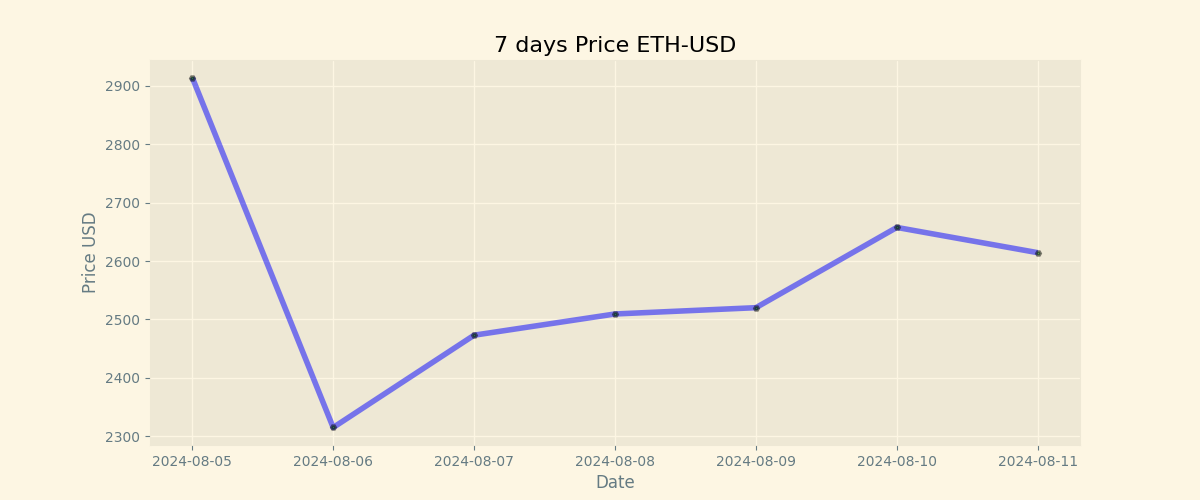
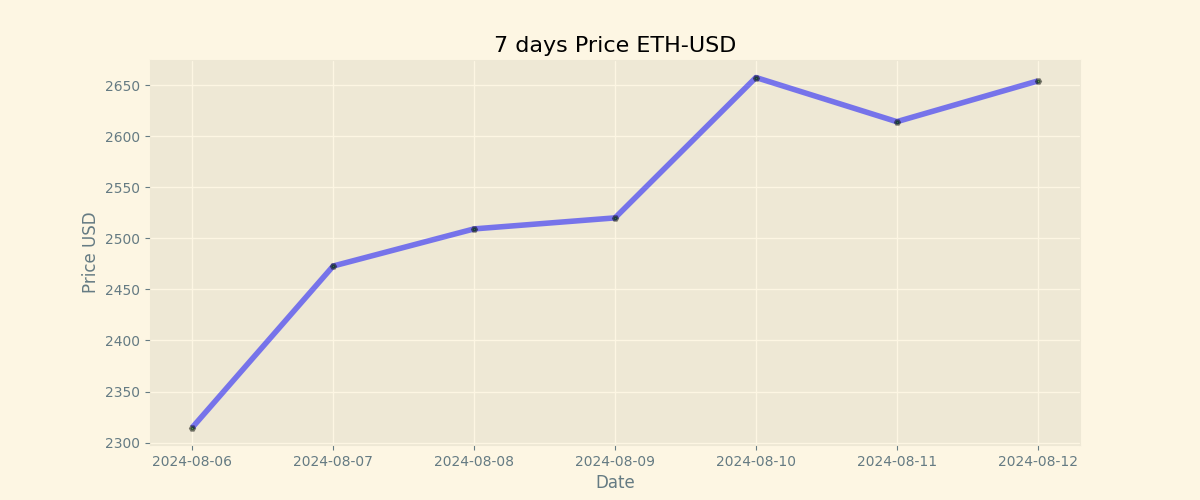
Duty Updates 2024-08-12

diff --git a/README.md b/README.md
@@ -9,8 +9,8 @@
 
 | Currency | Price           |
 | -------- | --------------- |
-| **BTC**  | **$ 60550.0** |
-| **ETH**  | **$ 2614.29** |
+| **BTC**  | **$ 60315.36** |
+| **ETH**  | **$ 2654.14** |
 
 ## BTC chart
 
